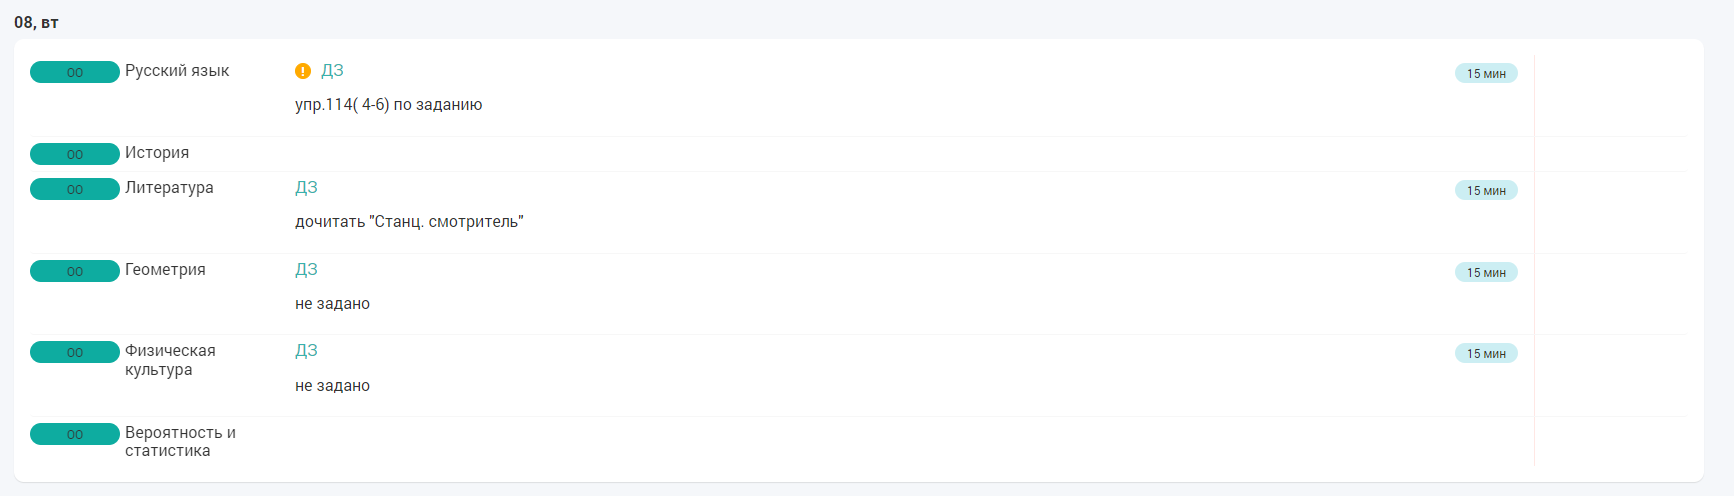
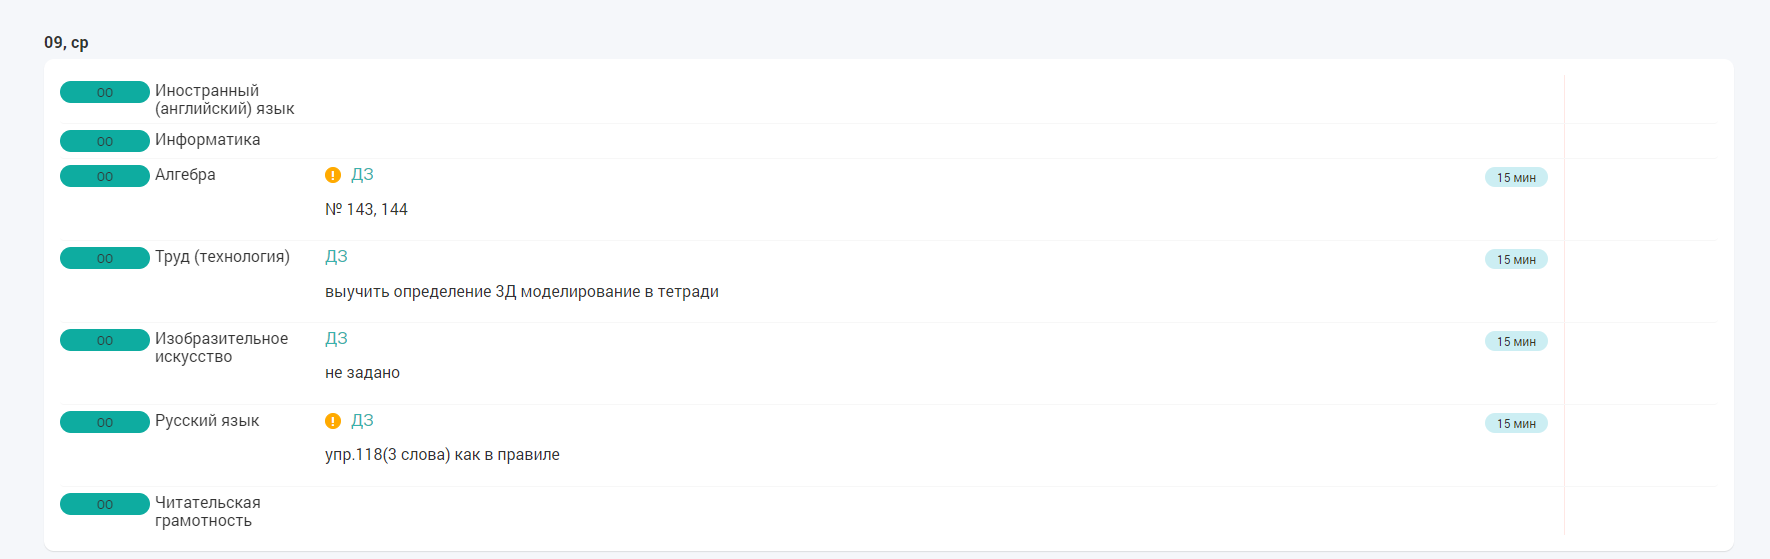
на 9

diff --git a/index.html b/index.html
@@ -6,8 +6,7 @@
     </head>
     <body>
   <div class="div">
-    <h1 class="Text1"> ДЗ на 8 октября</h1>
-    <h3 class="Дзгеометрии">Дз по геометрии: Принести транспортир!,  Доделать классную работу по алгебре!</h3>
+    <h1 class="Text1"> ДЗ на 9 октября</h1>
     <p class="Дз"><img src="Images/ДЗ.png" width="1366" height="750"></img></p>
     <p class="Расписание"><img src="Images/" width="1280" height="720"></img></p>
   </div>
